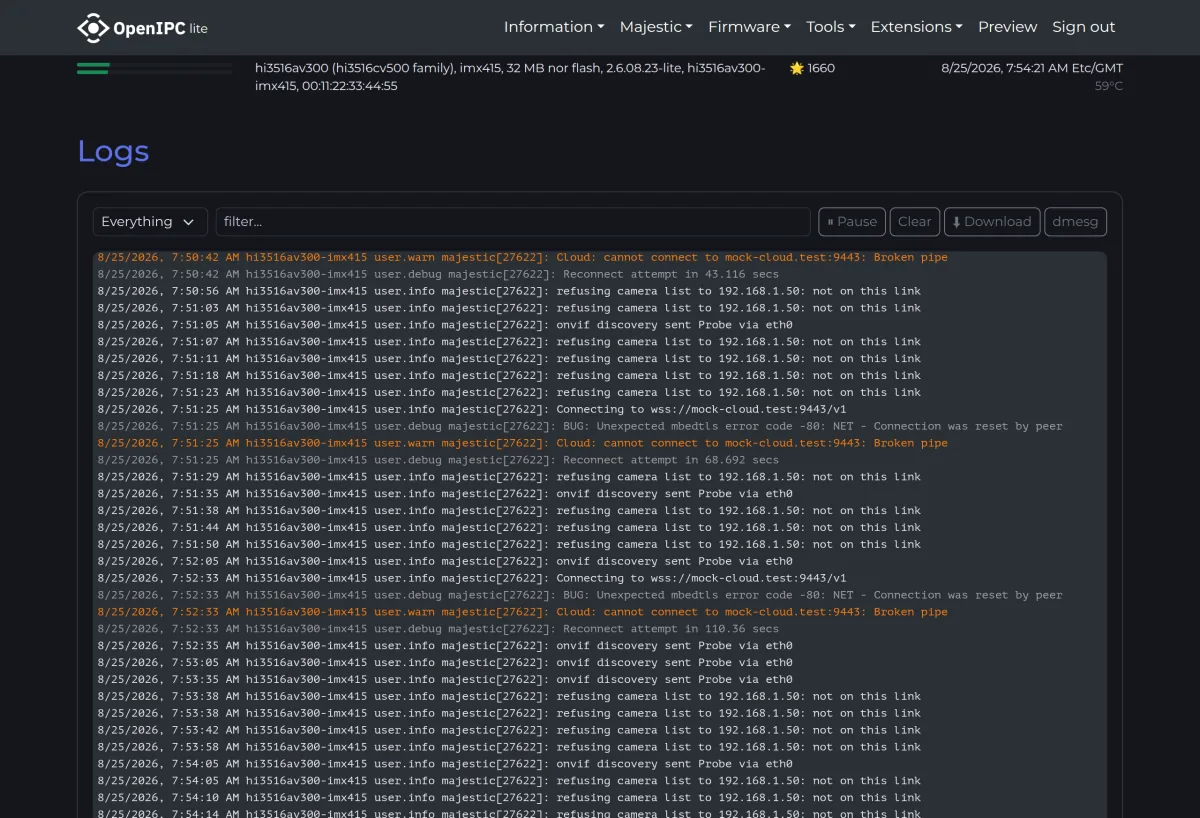
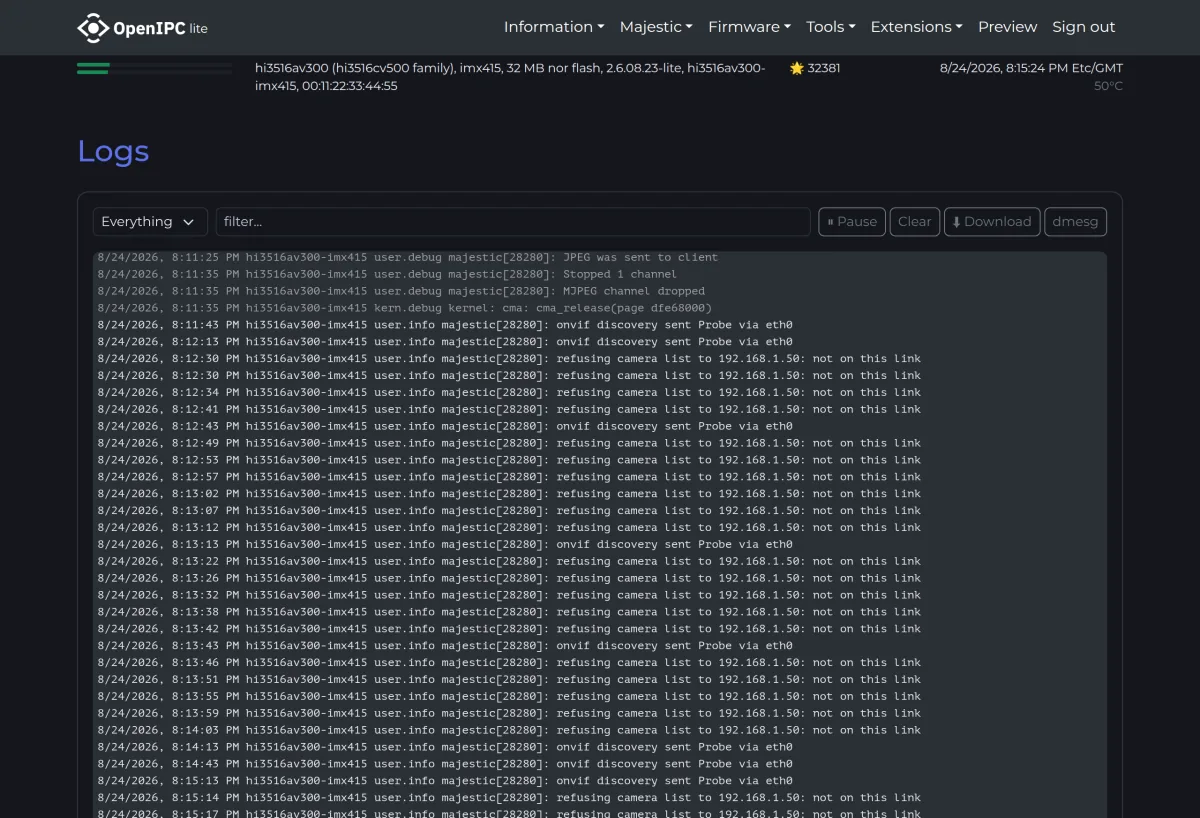
Keep the previous Logs screenshot rather than this run's
The lab camera is configured to reach a cloud at mock-cloud.test:9443
that does not exist, so its log fills with orange "Cloud: cannot connect
-- Broken pipe" warnings every minute or two. They are true, they are
fully redacted, and they make the product look like it is erroring on
the marketing page. The previous capture caught a calm window.

So eleven tiles are from this run and Logs is from the one before it,
which means the gallery is no longer all one moment: Logs reads 8/24
20:15 and 50 degrees while the rest read 8/25 07:54 and 59. Nothing
depends on them being contemporaneous.

README says how to do this, because a tile coming out badly through no
fault of the software is not a one-off.

diff --git a/tools/webui-gallery/README.md b/tools/webui-gallery/README.md
@@ -47,6 +47,17 @@ not mention. That list is the answer to "what did the redesign add?".
 A full run also deletes images the manifest no longer names, so retiring a page
 is one deletion in the YAML.
 
+It replaces every tile, too, and one of them can come out badly through no
+fault of the camera's software — the log viewer filling with warnings from
+something misconfigured on that particular device, say. Keep the previous one:
+
+```bash
+git checkout master -- app/assets/images/webui/logs.webp app/assets/images/webui/logs-thumb.webp
+```
+
+Nothing depends on the gallery being one moment in time. Say so in the commit
+message, so the next person is not puzzled by a tile whose clock disagrees.
+
 ## What gets removed, and why it matters
 
 The camera is a real device on a real network, and its address, gateway,
